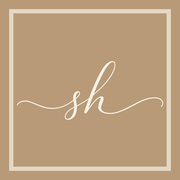
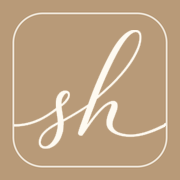
ajuste icone

Changed region(s): [[0.0278, 0.0278, 0.9722, 0.9722]]

diff --git a/app/templates/base.html b/app/templates/base.html
@@ -6,6 +6,13 @@
   <meta name="csrf-token" content="{{ csrf_token() }}">
   <title>{% block titulo %}CRM{% endblock %} · Sabrina Hansen Atelier</title>
   <link rel="icon" href="{{ url_for('static', filename='favicon.ico') }}" type="image/x-icon">
+  <!-- Ícone próprio do ERP (diferente do site) ao salvar na tela inicial do iOS. -->
+  <link rel="apple-touch-icon" sizes="180x180" href="{{ url_for('static', filename='apple-touch-icon-erp.png') }}">
+  <meta name="apple-mobile-web-app-title" content="SH ERP">
+  <meta name="apple-mobile-web-app-capable" content="yes">
+  <meta name="mobile-web-app-capable" content="yes">
+  <meta name="theme-color" content="#2c2620">
+  <link rel="manifest" href="{{ url_for('static', filename='manifest-erp.webmanifest') }}">
   <link rel="stylesheet" href="{{ url_for('static', filename='css/fontes.css') }}">
   <link rel="stylesheet" href="{{ url_for('static', filename='css/bootstrap.min.css') }}">
   <link rel="stylesheet" href="{{ url_for('static', filename='css/bootstrap-icons.min.css') }}">

diff --git a/app/templates/login.html b/app/templates/login.html
@@ -5,6 +5,12 @@
   <meta name="viewport" content="width=device-width, initial-scale=1">
   <title>Entrar · Sabrina Hansen Atelier</title>
   <link rel="icon" href="{{ url_for('static', filename='favicon.ico') }}" type="image/x-icon">
+  <link rel="apple-touch-icon" sizes="180x180" href="{{ url_for('static', filename='apple-touch-icon-erp.png') }}">
+  <meta name="apple-mobile-web-app-title" content="SH ERP">
+  <meta name="apple-mobile-web-app-capable" content="yes">
+  <meta name="theme-color" content="#2c2620">
+  <meta name="mobile-web-app-capable" content="yes">
+  <link rel="manifest" href="{{ url_for('static', filename='manifest-erp.webmanifest') }}">
 
   <link rel="stylesheet" href="{{ url_for('static', filename='css/fontes.css') }}">
   <link rel="stylesheet" href="{{ url_for('static', filename='css/identidade.css') }}">

diff --git a/app/templates/campanha.html b/app/templates/campanha.html
@@ -7,7 +7,7 @@
   <meta name="viewport" content="width=device-width, initial-scale=1">
   <title>{{ campanha.nome }} · Sabrina Hansen Atelier</title>
   <link rel="icon" href="{{ url_for('static', filename='favicon.ico') }}" type="image/x-icon">
-  <link rel="apple-touch-icon" href="{{ url_for('static', filename='apple-touch-icon.png') }}">
+  <link rel="apple-touch-icon" sizes="180x180" href="{{ url_for('static', filename='apple-touch-icon.png') }}">
   <meta name="apple-mobile-web-app-title" content="Sabrina Hansen">
   <meta name="theme-color" content="#b89a78">
   <link rel="manifest" href="{{ url_for('static', filename='manifest.webmanifest') }}">

diff --git a/app/templates/conta_v2_base.html b/app/templates/conta_v2_base.html
@@ -5,7 +5,7 @@
   <meta name="viewport" content="width=device-width, initial-scale=1">
   <title>{% block titulo %}Minha conta{% endblock %} · Sabrina Hansen Atelier</title>
   <link rel="icon" href="{{ url_for('static', filename='favicon.ico') }}" type="image/x-icon">
-  <link rel="apple-touch-icon" href="{{ url_for('static', filename='apple-touch-icon.png') }}">
+  <link rel="apple-touch-icon" sizes="180x180" href="{{ url_for('static', filename='apple-touch-icon.png') }}">
   <meta name="apple-mobile-web-app-title" content="Sabrina Hansen">
   <meta name="apple-mobile-web-app-capable" content="yes">
   <meta name="theme-color" content="#b89a78">

diff --git a/app/templates/vitrine2.html b/app/templates/vitrine2.html
@@ -6,7 +6,7 @@
   <meta name="viewport" content="width=device-width, initial-scale=1">
   <title>{{ colecao ~ ' · ' if colecao }}Sabrina Hansen Atelier</title>
   <link rel="icon" href="{{ url_for('static', filename='favicon.ico') }}" type="image/x-icon">
-  <link rel="apple-touch-icon" href="{{ url_for('static', filename='apple-touch-icon.png') }}">
+  <link rel="apple-touch-icon" sizes="180x180" href="{{ url_for('static', filename='apple-touch-icon.png') }}">
   <meta name="apple-mobile-web-app-title" content="Sabrina Hansen">
   <meta name="apple-mobile-web-app-capable" content="yes">
   <meta name="mobile-web-app-capable" content="yes">

diff --git a/app/templates/peca_publica.html b/app/templates/peca_publica.html
@@ -5,7 +5,7 @@
   <meta name="viewport" content="width=device-width, initial-scale=1">
   <title>{{ peca.nome }} · Sabrina Hansen Atelier</title>
   <link rel="icon" href="{{ url_for('static', filename='favicon.ico') }}" type="image/x-icon">
-  <link rel="apple-touch-icon" href="{{ url_for('static', filename='apple-touch-icon.png') }}">
+  <link rel="apple-touch-icon" sizes="180x180" href="{{ url_for('static', filename='apple-touch-icon.png') }}">
   <meta name="apple-mobile-web-app-title" content="Sabrina Hansen">
   <meta name="apple-mobile-web-app-capable" content="yes">
   <meta name="theme-color" content="#b89a78">

diff --git a/gerar_icones.py b/gerar_icones.py
@@ -1,0 +1,213 @@
+#!/usr/bin/env python3
+"""Gera os ícones de tela inicial (iOS/Android) da Loja e do ERP.
+
+Fonte da arte: o monograma `sh` de `app/static/monograma.svg` (o mesmo do
+favicon). Cada ícone é montado como SVG (mantido em `app/static/` para poder
+ser reaproveitado) e rasterizado com `qlmanage` (QuickLook do macOS) em
+1024x1024, depois reduzido com Pillow para os tamanhos finais.
+
+    .venv/bin/python gerar_icones.py            # respeita ícones editados à mão
+    .venv/bin/python gerar_icones.py --forcar   # regera tudo, apagando edições
+
+**Ícone editado à mão nunca é sobrescrito.** O script guarda o sha256 do que
+gerou em `icones-gerados.json`; se o arquivo em disco não bate com esse hash
+(ou nem consta no registro), ele é tratado como arte manual e pulado. Vale
+também para os SVGs: SVG editado vira a fonte, e os PNGs saem dele.
+
+Por que o PNG é quadrado e opaco: o iOS aplica sozinho a máscara arredondada
+no `apple-touch-icon`. Se o arquivo já vier com cantos transparentes, o iOS
+preenche o canto com preto. O arredondamento visível vem da moldura interna.
+"""
+
+from __future__ import annotations
+
+import hashlib
+import json
+import re
+import shutil
+import subprocess
+import sys
+import tempfile
+from pathlib import Path
+
+from PIL import Image
+
+RAIZ = Path(__file__).resolve().parent
+ESTATICO = RAIZ / "app" / "static"
+# sha256 de cada arquivo que o script gerou: se o hash de um ícone não bater,
+# ele foi editado à mão e o script não encosta nele.
+REGISTRO = RAIZ / "icones-gerados.json"
+
+# Paleta de identidade.css
+MOCHA = "#b89a78"
+CREAM = "#f7f1e6"
+GOLD = "#b08a4f"
+GOLD_SOFT = "#c9a96a"
+INK = "#2c2620"
+
+LADO = 1024  # viewBox de trabalho
+
+
+def monograma() -> tuple[str, tuple[float, float, float, float]]:
+    """Devolve (path `d`, viewBox) do monograma."""
+    svg = (ESTATICO / "monograma.svg").read_text()
+    d = re.search(r'<path d="(.*?)"', svg, re.S).group(1)
+    vb = re.search(r'viewBox="([-\d.\s]+)"', svg).group(1).split()
+    return d, tuple(float(v) for v in vb)
+
+
+PATH, (MX, MY, MW, MH) = monograma()
+
+
+def _mono(cor: str, largura: float, cy: float) -> str:
+    """Monograma pintado de `cor`, com `largura` px, centrado em (LADO/2, cy)."""
+    s = largura / MW
+    tx = LADO / 2 - largura / 2 - MX * s
+    ty = cy - (MH * s) / 2 - MY * s
+    return (
+        f'<g fill="{cor}" transform="translate({tx:.2f},{ty:.2f}) scale({s:.5f})">'
+        f'<g transform="translate(0,1024) scale(0.1,-0.1)"><path d="{PATH}"/></g></g>'
+    )
+
+
+def svg_icone(
+    fundo: str,
+    tinta: str,
+    moldura: str | None,
+    texto: str | None = None,
+    cor_texto: str = GOLD_SOFT,
+    mono_largura: float = 0.66,
+    cantos: int = 0,
+) -> str:
+    """Monta o SVG do ícone.
+
+    `cantos` > 0 arredonda o próprio PNG (uso web/favicon). Para
+    `apple-touch-icon` e ícones maskable deve ficar 0 (quadrado, full-bleed).
+    """
+    partes = [
+        f'<svg xmlns="http://www.w3.org/2000/svg" viewBox="0 0 {LADO} {LADO}" '
+        f'width="{LADO}" height="{LADO}">',
+        f'<rect width="{LADO}" height="{LADO}" rx="{cantos}" fill="{fundo}"/>',
+    ]
+    if moldura:
+        partes.append(
+            f'<rect x="76" y="76" width="{LADO - 152}" height="{LADO - 152}" rx="168" '
+            f'fill="none" stroke="{moldura}" stroke-width="10" opacity="0.85"/>'
+        )
+    cy = 452 if texto else 512
+    partes.append(_mono(tinta, LADO * mono_largura, cy))
+    if texto:
+        partes.append(
+            f'<text x="{LADO / 2 + 16}" y="740" text-anchor="middle" '
+            f'font-family="Didot, Georgia, serif" font-size="132" letter-spacing="32" '
+            f'fill="{cor_texto}">{texto}</text>'
+        )
+    partes.append("</svg>")
+    return "".join(partes)
+
+
+def sha(caminho: Path) -> str:
+    return hashlib.sha256(caminho.read_bytes()).hexdigest()
+
+
+def carregar_registro() -> dict[str, str]:
+    """Hashes dos arquivos que ESTE script gerou na última execução."""
+    if REGISTRO.exists():
+        return json.loads(REGISTRO.read_text())
+    return {}
+
+
+def editado_a_mao(caminho: Path, registro: dict[str, str]) -> bool:
+    """Arquivo existe mas não bate com o que o script gerou -> é edição manual."""
+    if not caminho.exists():
+        return False
+    return registro.get(caminho.name) != sha(caminho)
+
+
+def rasterizar(svg: Path) -> Image.Image:
+    """SVG -> PNG 1024x1024 via QuickLook."""
+    with tempfile.TemporaryDirectory() as tmp:
+        subprocess.run(
+            ["qlmanage", "-t", "-s", str(LADO), "-o", tmp, str(svg)],
+            check=True,
+            capture_output=True,
+        )
+        saida = next(Path(tmp).glob("*.png"))
+        return Image.open(saida).convert("RGBA").copy()
+
+
+def salvar(img: Image.Image, nome: str, lado: int, alfa: bool = False) -> None:
+    fora = img.resize((lado, lado), Image.LANCZOS)
+    if not alfa:
+        fora = fora.convert("RGB")
+    fora.save(ESTATICO / nome, optimize=True)
+    print(f"  {nome} ({lado}x{lado})")
+
+
+ICONES = {
+    # nome do SVG: (kwargs do svg_icone, [(arquivo png, lado, alfa)])
+    "icone-loja.svg": (
+        dict(fundo=MOCHA, tinta=CREAM, moldura=CREAM),
+        [
+            ("apple-touch-icon.png", 180, False),
+            ("icon-192.png", 192, False),
+            ("icon-512.png", 512, False),
+        ],
+    ),
+    "icone-erp.svg": (
+        dict(fundo=INK, tinta=CREAM, moldura=GOLD, texto="ERP"),
+        [
+            ("apple-touch-icon-erp.png", 180, False),
+            ("icon-erp-192.png", 192, False),
+            ("icon-erp-512.png", 512, False),
+        ],
+    ),
+    # Maskable: sem moldura e com monograma menor, para caber na zona segura
+    # (80% central) que o Android recorta.
+    "icone-loja-maskable.svg": (
+        dict(fundo=MOCHA, tinta=CREAM, moldura=None, mono_largura=0.50),
+        [("icon-maskable-512.png", 512, False)],
+    ),
+    "icone-erp-maskable.svg": (
+        dict(fundo=INK, tinta=CREAM, moldura=None, texto="ERP", mono_largura=0.50),
+        [("icon-erp-maskable-512.png", 512, False)],
+    ),
+}
+
+
+def main(forcar: bool = False) -> None:
+    if not shutil.which("qlmanage"):
+        raise SystemExit("qlmanage não encontrado (script depende do macOS).")
+    registro = carregar_registro()
+    pulados = []
+
+    for nome_svg, (kw, saidas) in ICONES.items():
+        svg = ESTATICO / nome_svg
+        # SVG editado à mão vira a fonte da arte: mantém o arquivo e rasteriza a
+        # partir dele, em vez de regravar o desenho padrão por cima.
+        if editado_a_mao(svg, registro) and not forcar:
+            print(f"{nome_svg} (edição manual — usando o arquivo do disco)")
+        else:
+            svg.write_text(svg_icone(**kw))
+            registro[nome_svg] = sha(svg)
+            print(nome_svg)
+
+        pendentes = [s for s in saidas if forcar or not editado_a_mao(ESTATICO / s[0], registro)]
+        pulados += [s[0] for s in saidas if s not in pendentes]
+        if not pendentes:
+            continue
+
+        base = rasterizar(svg)
+        for arquivo, lado, alfa in pendentes:
+            salvar(base, arquivo, lado, alfa)
+            registro[arquivo] = sha(ESTATICO / arquivo)
+
+    REGISTRO.write_text(json.dumps(registro, indent=2, sort_keys=True) + "\n")
+    for nome in pulados:
+        print(f"  pulado (edição manual): {nome}")
+    if pulados:
+        print("Para sobrescrever mesmo assim: gerar_icones.py --forcar")
+
+
+if __name__ == "__main__":
+    main(forcar="--forcar" in sys.argv)
